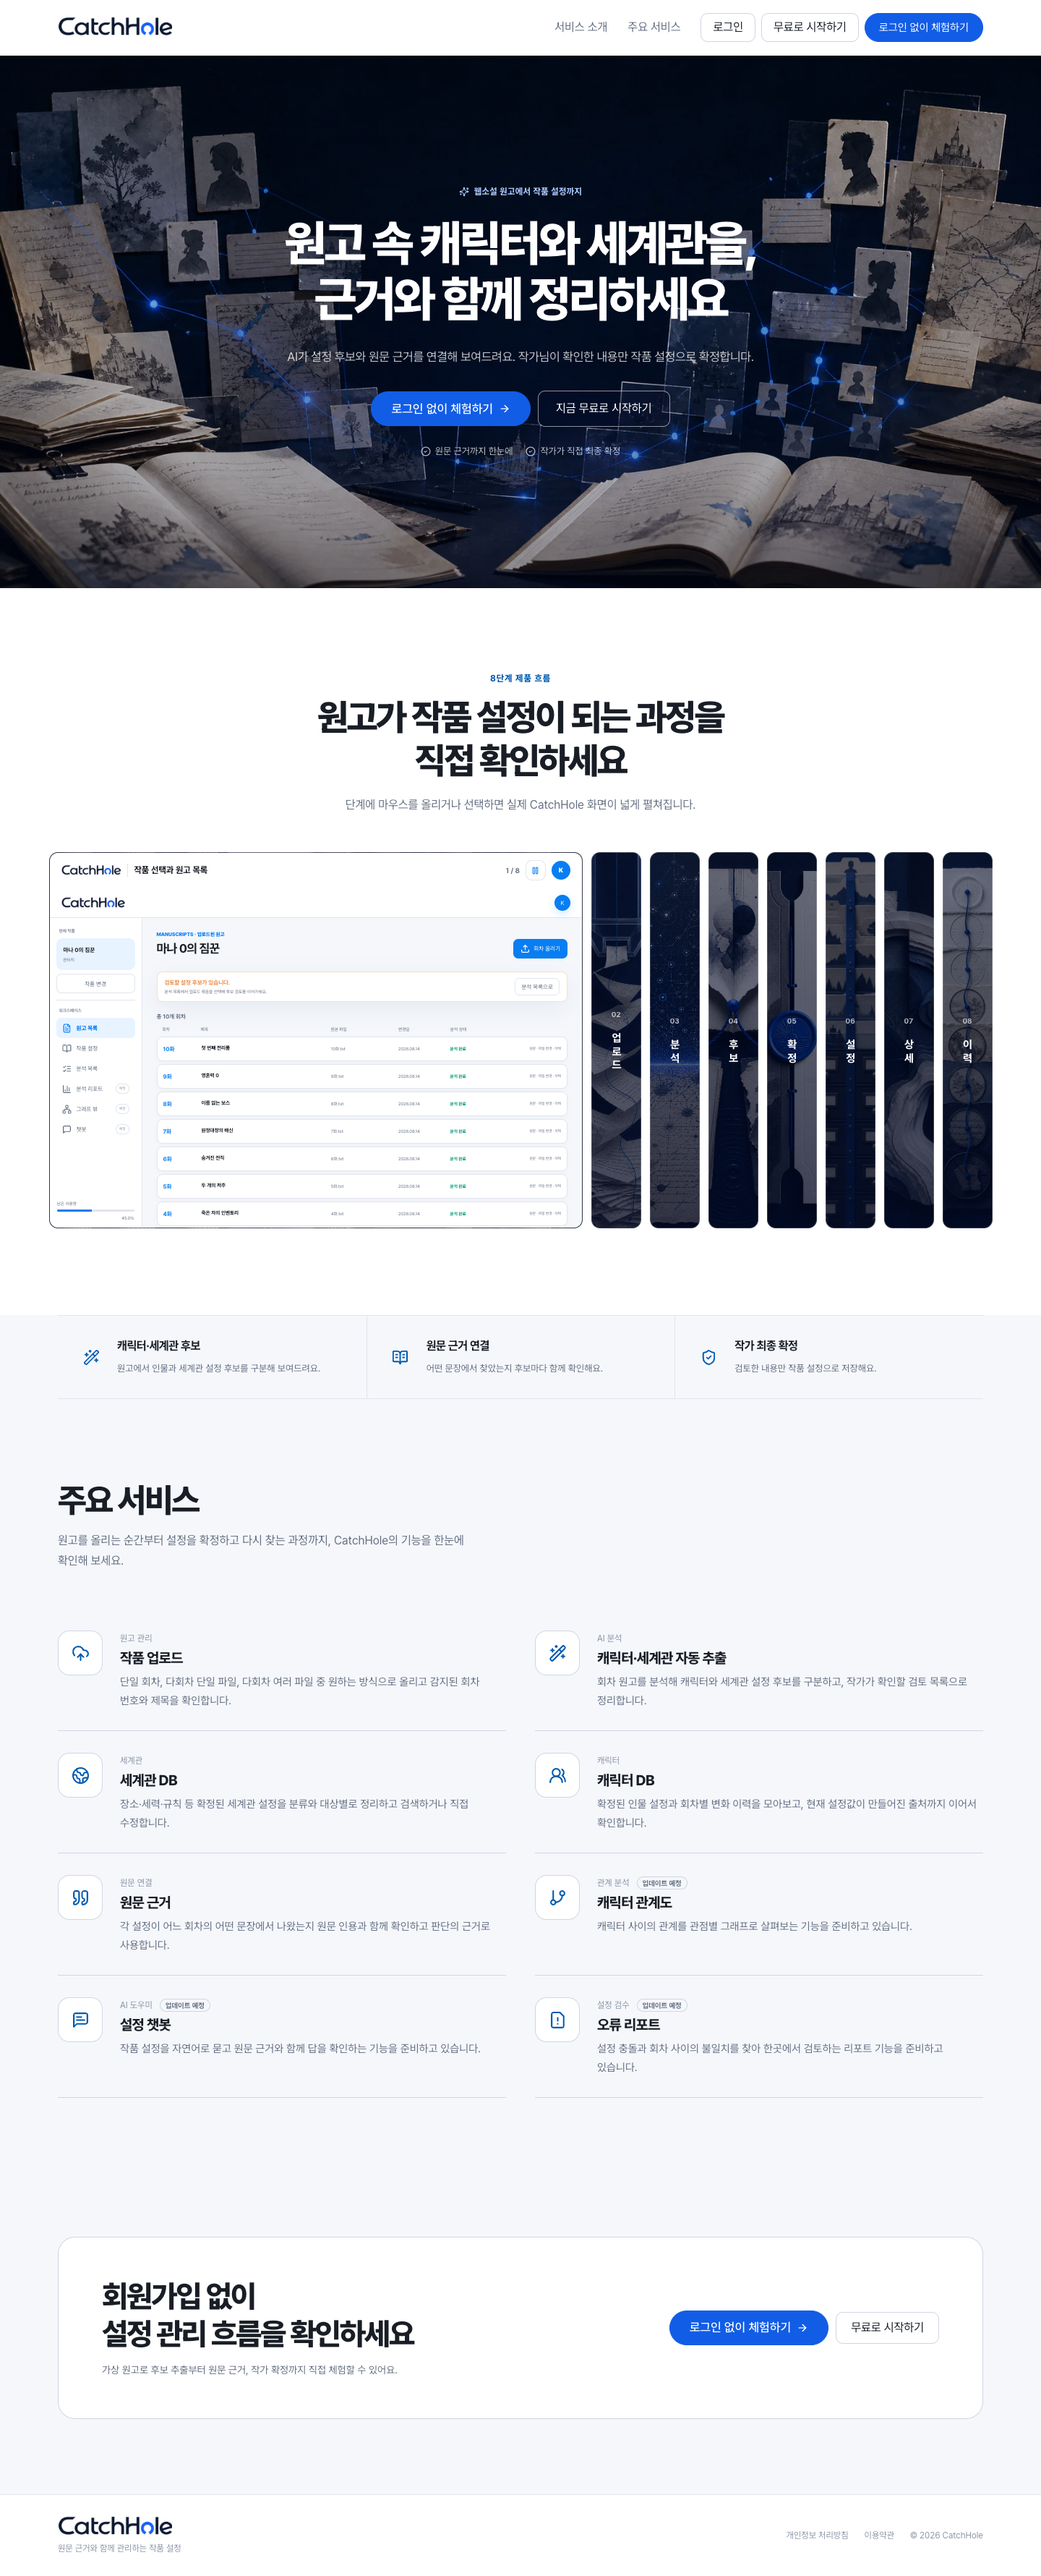
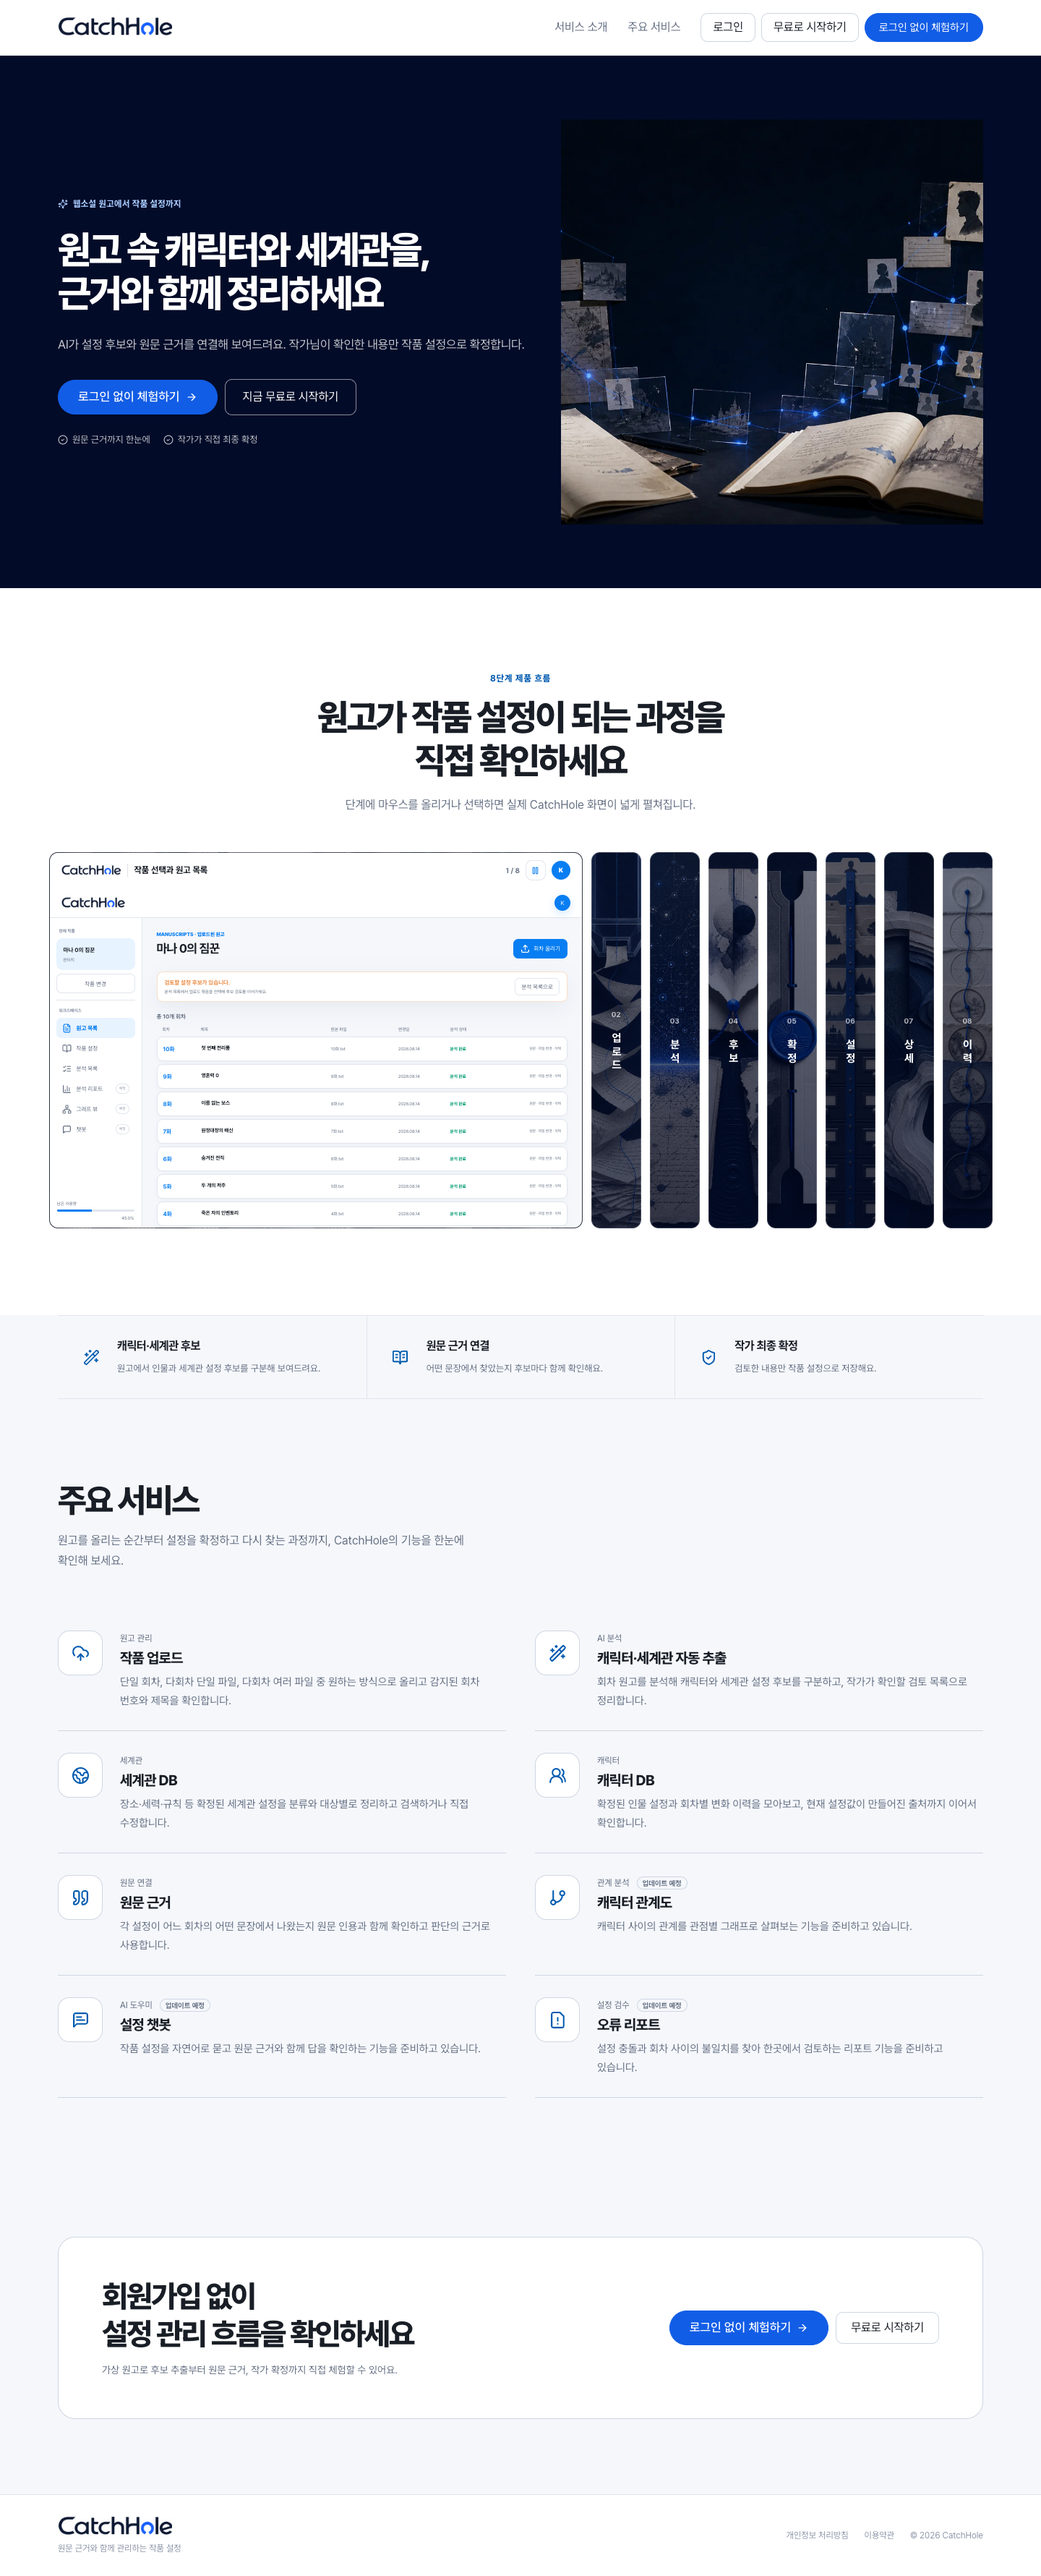
docs(landing): 분할 Hero 승인 자료를 동기화한다
인증 데이터 요구사항과 화면 흐름에 wide 분할 Hero, 좁은 화면의 카피 우선 순서, 모바일 로그인 유지를 명시한다.

Pencil 편집 원본과 랜딩 승인 캡처를 실제 구현과 같은 Hero 구조로 갱신한다.

런타임 수정과 독립적으로 검토하고 되돌릴 수 있도록 문서 산출물을 별도 커밋으로 분리한다.

Changed region(s): [[0.0, 0.0312, 1.0, 0.2494]]

diff --git a/docs/data-requirements/auth.md b/docs/data-requirements/auth.md
@@ -52,7 +52,7 @@
 
 **1. 화면에 표시할 데이터**
 - 상단 고정 헤더: CatchHole 로고, 서비스 소개·주요 서비스 앵커, 로그인·무료 시작 보조 버튼, `로그인 없이 체험하기` 주 버튼
-- Hero: `웹소설 원고에서 작품 설정까지` 배지, `원고 속 캐릭터와 세계관을, 근거와 함께 정리하세요` 제목, 서비스 설명, 로그인 없는 체험 주 버튼·무료 시작 보조 버튼, 원문 근거·작가 확정 신뢰 요소, CatchHole 전용 에디토리얼 이미지
+- Hero: 넓은 화면에서는 카피와 CatchHole 전용 에디토리얼 이미지를 좌우로 분할하고, 좁은 화면에서는 카피 다음에 이미지를 배치한다. `웹소설 원고에서 작품 설정까지` 배지, `원고 속 캐릭터와 세계관을, 근거와 함께 정리하세요` 제목, 서비스 설명, 로그인 없는 체험 주 버튼·무료 시작 보조 버튼, 원문 근거·작가 확정 신뢰 요소를 유지한다.
 - 8단계 제품 흐름: 작품 → 업로드 → 분석 → 후보 → 확정 → 설정 → 상세 → 이력 순서와 단계별 서로 다른 실제 제품 장면. 데스크톱에서는 활성 장면과 세로 레일을 한 화면에 펼치는 아코디언, 태블릿·모바일에서는 단일 활성 장면과 가로 단계 탭으로 표시
 - 핵심 기능 요약: 캐릭터·세계관 후보, 원문 근거 연결, 작가 최종 확정
 - 주요 서비스 카탈로그: 데스크톱 2열·모바일 1열 목록으로 작품 업로드, 캐릭터·세계관 자동 추출, 세계관 DB, 캐릭터 DB, 원문 근거를 설명. 캐릭터 관계도·설정 챗봇·오류 리포트는 같은 목록에서 `업데이트 예정`으로 명시하고 현재 기능으로 오인할 링크나 실행 액션을 제공하지 않음
@@ -68,7 +68,7 @@
 - `서비스 소개`는 Hero, `주요 서비스`는 서비스 카탈로그로 부드럽게 스크롤한다. 사용자가 모션 감소를 요청한 환경에서는 즉시 이동해도 정보 구조와 기능이 동일해야 한다.
 
 **3. 사용자 액션**
-- 로그인 버튼 → 랜딩 위에 [로그인](#로그인-slogin) 라우트 모달 열기
+- 로그인 버튼 → 데스크톱과 모바일 모두 랜딩 위에 [로그인](#로그인-slogin) 라우트 모달 열기. 좁은 헤더에서는 회원가입 보조 버튼만 접고 로그인과 `로그인 없이 체험하기`는 직접 노출한다.
 - 헤더·Hero·하단의 `로그인 없이 체험하기` 주 버튼 → 공개 [인터랙티브 데모](../screen-flow.md#2-인터랙티브-데모-wf-06)로 이동
 - 회원가입·무료 시작 보조 버튼 → 랜딩 위에 [회원가입](#회원가입-ssignup) 라우트 모달 열기
 - 서비스 소개·주요 서비스 → 해당 랜딩 영역으로 스크롤

diff --git a/docs/screen-flow.md b/docs/screen-flow.md
@@ -43,7 +43,7 @@ Pencil은 아래 보드에서 실제 화면과 전환 설명을 함께 보여줍
 
 | 화면 이름 | 경로 (클릭 시 이동) | 무슨 화면인가 |
 | --- | --- | --- |
-| 랜딩 | [`/landing`](https://catch-hole.vercel.app/landing) | 로그인 없는 공개 데모를 주 CTA로 안내하고, 8단계 실제 제품 아코디언과 2열 서비스 카탈로그로 기능 범위를 소개하는 Theme V2 페이지 |
+| 랜딩 | [`/landing`](https://catch-hole.vercel.app/landing) | 로그인 없는 공개 데모를 주 CTA로 안내하고, 카피·이미지 분할 Hero와 8단계 실제 제품 아코디언, 2열 서비스 카탈로그로 기능 범위를 소개하는 Theme V2 페이지. 모바일에서도 로그인 진입점을 유지한다. |
 | 로그인 / 회원가입 | [`/login`](https://catch-hole.vercel.app/login) · [`/signup`](https://catch-hole.vercel.app/signup) | Theme V2 흰색 라우트 모달로 제공하는 이메일·비밀번호 인증·휴대폰 인증과 약관 동의 |
 | **인터랙티브 데모** | [`/demo`](https://catch-hole.vercel.app/demo) | Backend·AI 없이 10문단 fixture 단일 시나리오를 따라 하며 후보 확정·수정·제외, 5명 캐릭터 상세·변화 이력·근거, 세계관 설정 근거까지 직접 확인하는 공개 화면 |
 | 작품 선택 | [`/works`](https://catch-hole.vercel.app/works) | Theme V2 파일럿으로 작업할 작품을 고르는 진입점 |
